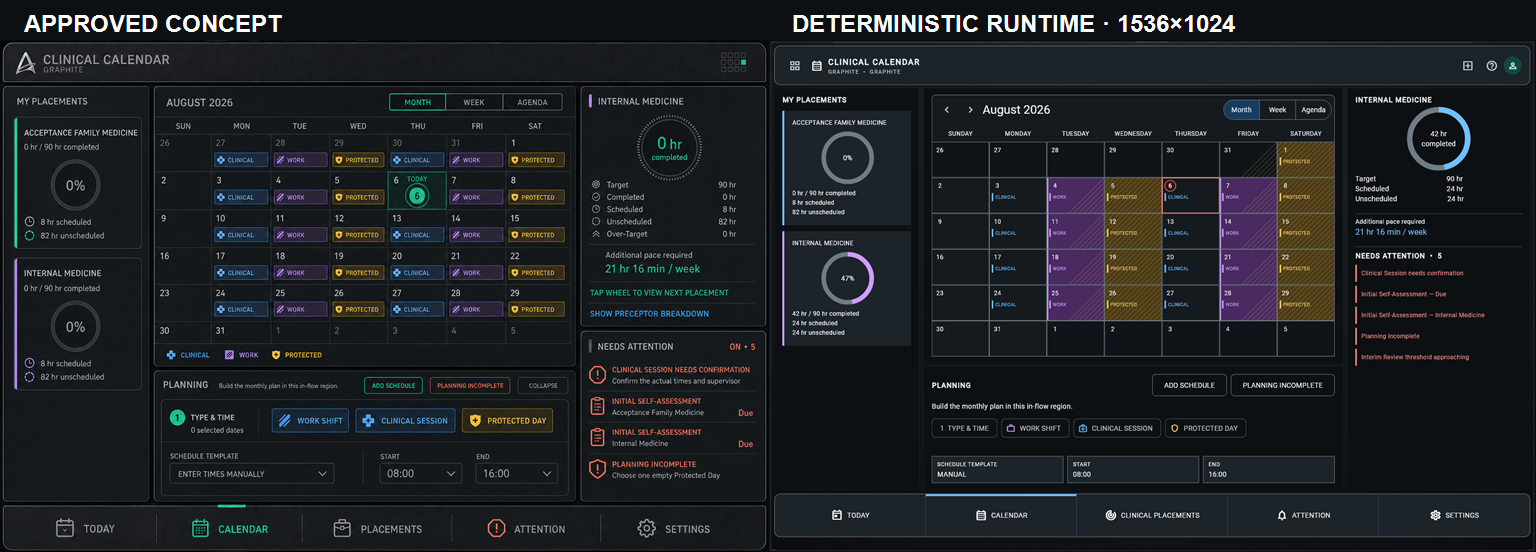
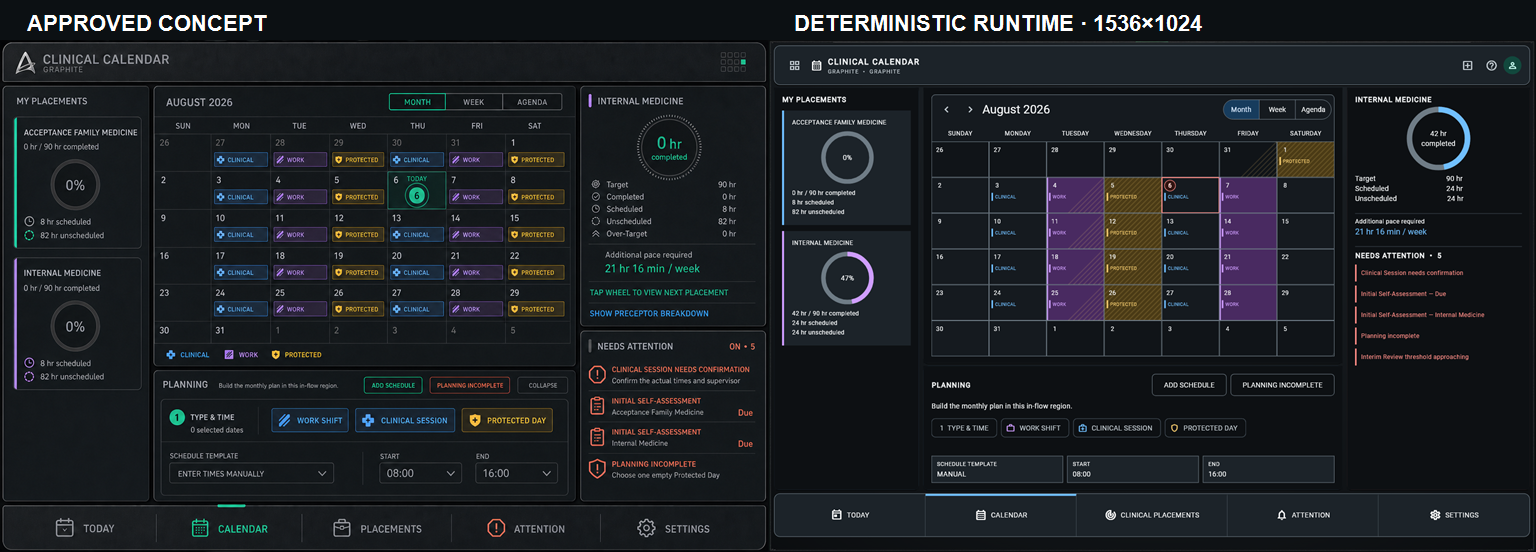
Correct Graphite proof domain fixture (#128)

diff --git a/packages/clinical_calendar_presentation/test/graphite_visual_proof_test.dart b/packages/clinical_calendar_presentation/test/graphite_visual_proof_test.dart
@@ -483,7 +483,7 @@ final class _ProofCalendarDataSource implements CalendarDataSource {
     required LocalDate firstDate,
     required LocalDate lastDate,
   }) async => CalendarSnapshot([
-    for (final day in [1, 5, 8, 12, 15, 19, 22, 26, 29])
+    for (final day in [1, 5, 12, 19, 26])
       CalendarEntry(
         id: 'protected-$day',
         kind: CalendarEntryKind.protectedDay,

diff --git a/docs/themes/acceptance/proofs/graphite-v2/README.md b/docs/themes/acceptance/proofs/graphite-v2/README.md
@@ -41,10 +41,10 @@ Containment Drone artwork is imported or rendered.
 
 ```text
 1d37e9c2c0f97a2428fbebfd0fc2b5d6e85e3281a634fa16ca2c67479ec24e4e  approved-concept-landscape.png
-d634a03a3e1b70f8fffb3c10ed07416e4c89b0770289a6123124a29040e08464  landscape-concept-vs-runtime.png
-85af47272104230dc698e6d940164677078ab40029bd232eae21e53db0709deb  runtime-landscape-1536x1024.png
+0aa8313484da40f1595fdf520789a7b3f2d3489a35bbbb5eb6f9b25eb265067c  landscape-concept-vs-runtime.png
+d269b99c1532b1657427b55406c49ea3d73f0f36141a6aab766eadd7e1f4281f  runtime-landscape-1536x1024.png
 256d40b21484561ac7fb2b13985b2df30a1a7c1cecfdad1147cdcf72fc132e73  runtime-portrait-200-percent-900x1440.png
-5de8e6887261c9ab863eb4fd20ded413005ba97928fc377199afb1feb976ad24  runtime-portrait-900x1440.png
+398785c3fbfb930747010d0bce312de9a1a8b0f4cdaeb3ef11a1956caaa2c008  runtime-portrait-900x1440.png
 ```
 
 ## Physical Android-tablet acceptance
